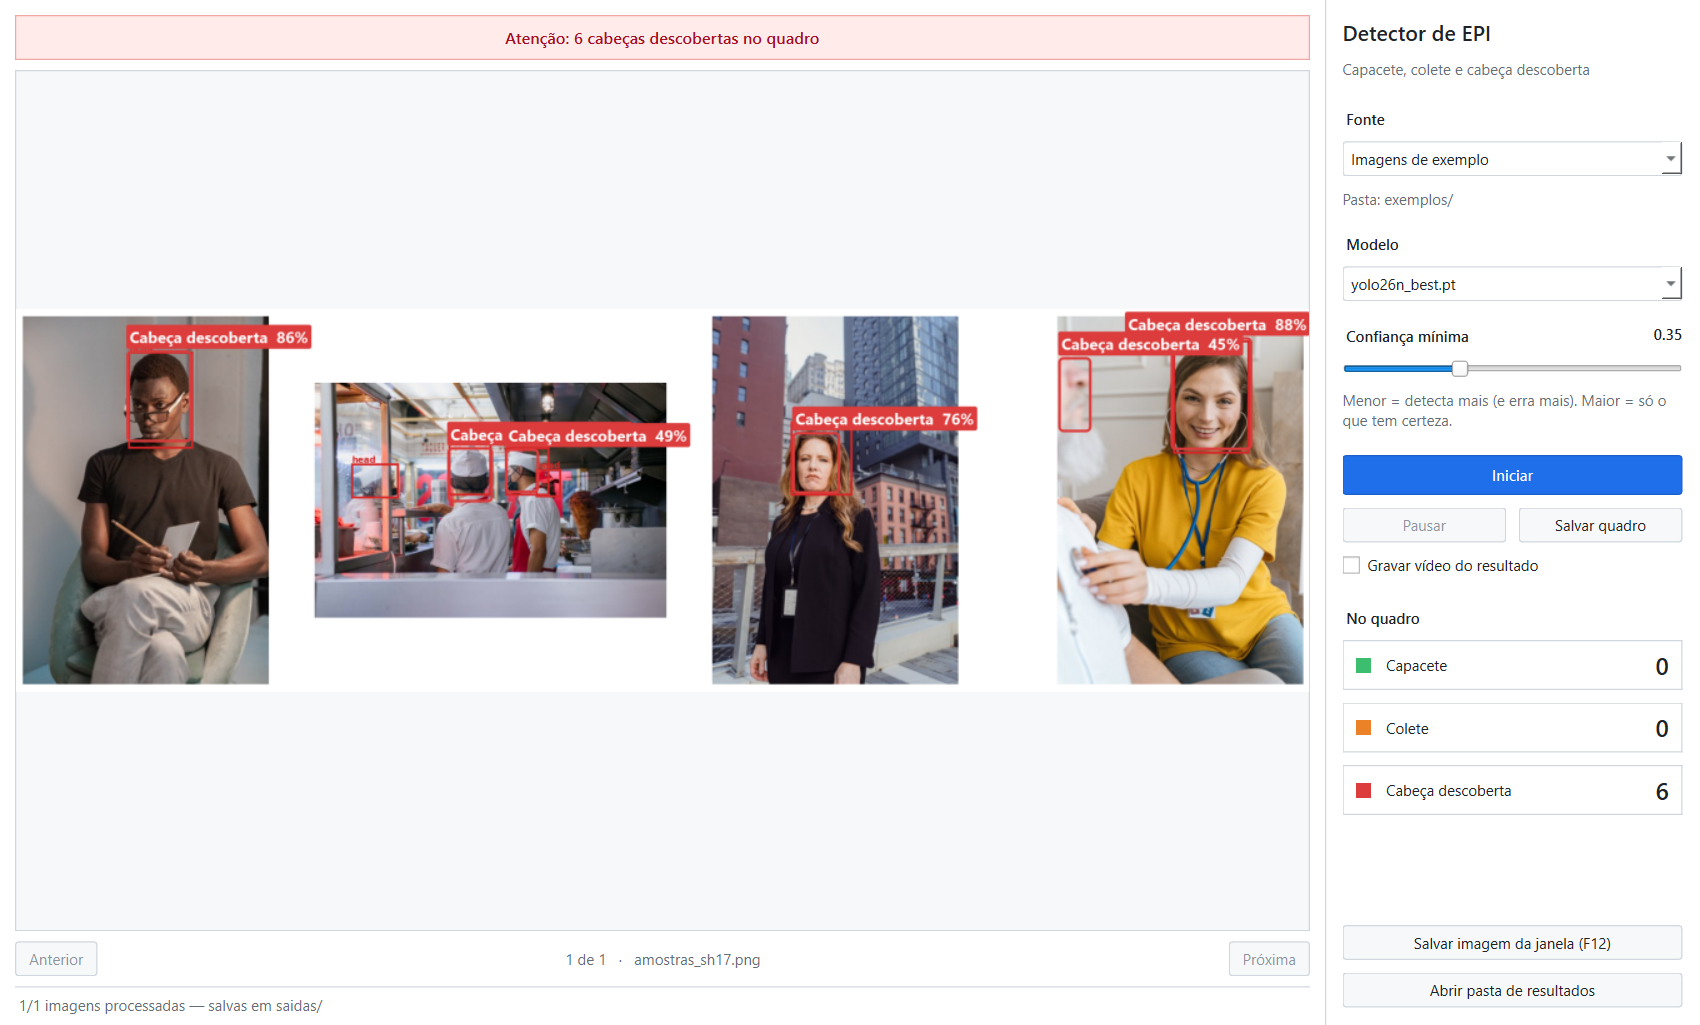
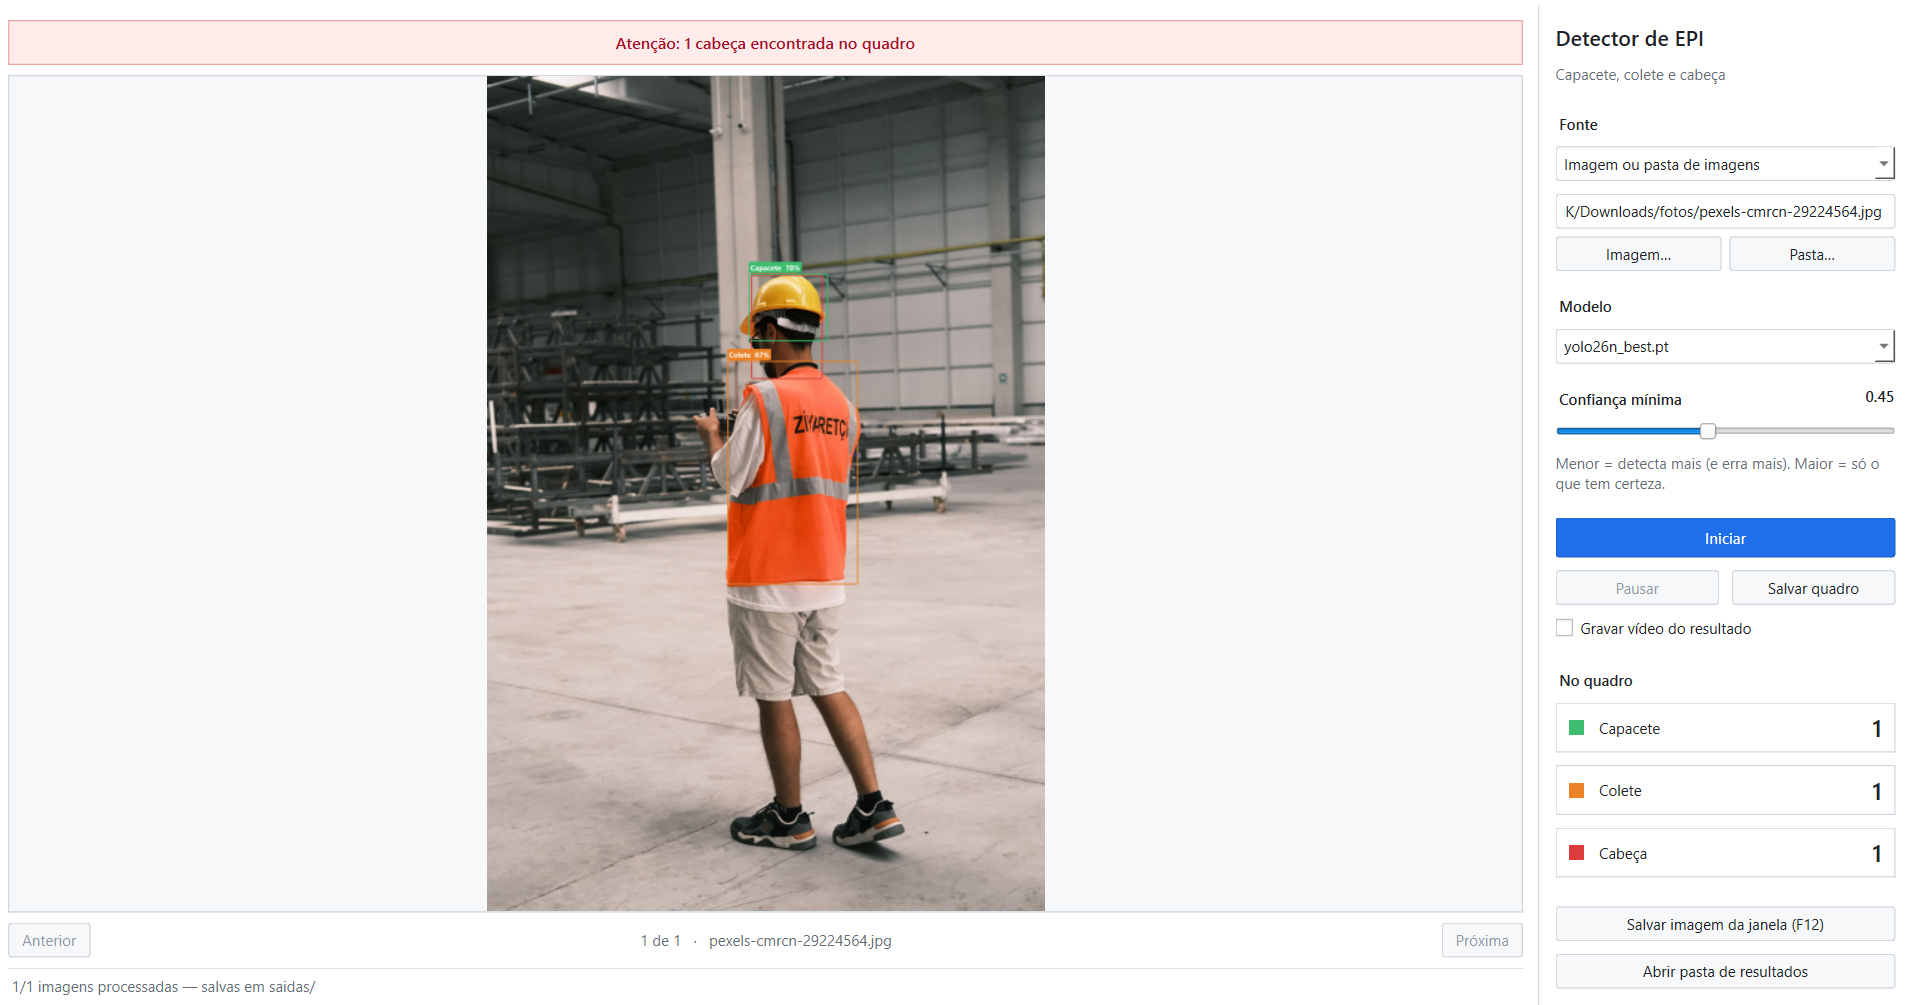
Captura nova da interface; ultimos textos da classe cabeca

diff --git a/detectar.py b/detectar.py
@@ -1,7 +1,7 @@
 #!/usr/bin/env python3
 # -*- coding: utf-8 -*-
 """
-Detector de EPI — capacete, colete de seguranca e cabeca descoberta.
+Detector de EPI: capacete, colete de seguranca e cabeca.
 
 Modelo treinado por Moises Kleinschmitt sobre o conjunto SH17, no ambito do
 artigo "Deteccao automatica de equipamentos de protecao individual por visao
@@ -27,7 +27,7 @@ import numpy as np
 EXT_IMG = {'.jpg', '.jpeg', '.png', '.bmp', '.webp', '.tif', '.tiff'}
 EXT_VID = {'.mp4', '.avi', '.mov', '.mkv', '.wmv', '.m4v', '.mpg', '.mpeg'}
 
-# BGR. Verde = protegido, laranja = colete, vermelho = cabeca descoberta.
+# BGR. Verde = capacete, laranja = colete, vermelho = cabeca.
 CORES = {
     'helmet':      (110, 190, 60),
     'safety-vest': (40, 130, 235),
@@ -43,7 +43,7 @@ ROTULOS = {
 # --------------------------------------------------------------- argumentos
 def ler_argumentos():
     p = argparse.ArgumentParser(
-        description='Detector de EPI (capacete, colete, cabeca descoberta).',
+        description='Detector de EPI (capacete, colete, cabeca).',
         formatter_class=argparse.RawDescriptionHelpFormatter,
         epilog=__doc__)
     p.add_argument('--fonte', default='webcam',
@@ -119,7 +119,7 @@ def painel(quadro, contagem, fps=None):
         (tw, _), _ = cv2.getTextSize(txt, cv2.FONT_HERSHEY_SIMPLEX, esc, 1)
         x += tw + 46
 
-    # Indicador de atencao: ha cabeca descoberta no quadro.
+    # Indicador de atencao: ha cabeca encontrada no quadro.
     # ATENCAO: isto e uma leitura por QUADRO, nao por pessoa. O detector nao
     # associa o equipamento a um individuo — ver secao 4.8 do artigo.
     if contagem.get('head', 0) > 0:

diff --git a/app_epi.py b/app_epi.py
@@ -5,7 +5,7 @@ Detector de EPI — interface gráfica (PySide6 / Qt).
 
 Mesmos modelos e mesmo desenho de caixas do detectar.py, com uma janela de
 controle: escolha da fonte, do modelo e da confiança, contadores por classe,
-alerta de cabeça descoberta, pausa, captura de quadro e gravação.
+aviso de cabeças encontradas, pausa, captura de quadro e gravação.
 
 Uso:
     python app_epi.py            (ou dois cliques em app.bat)
